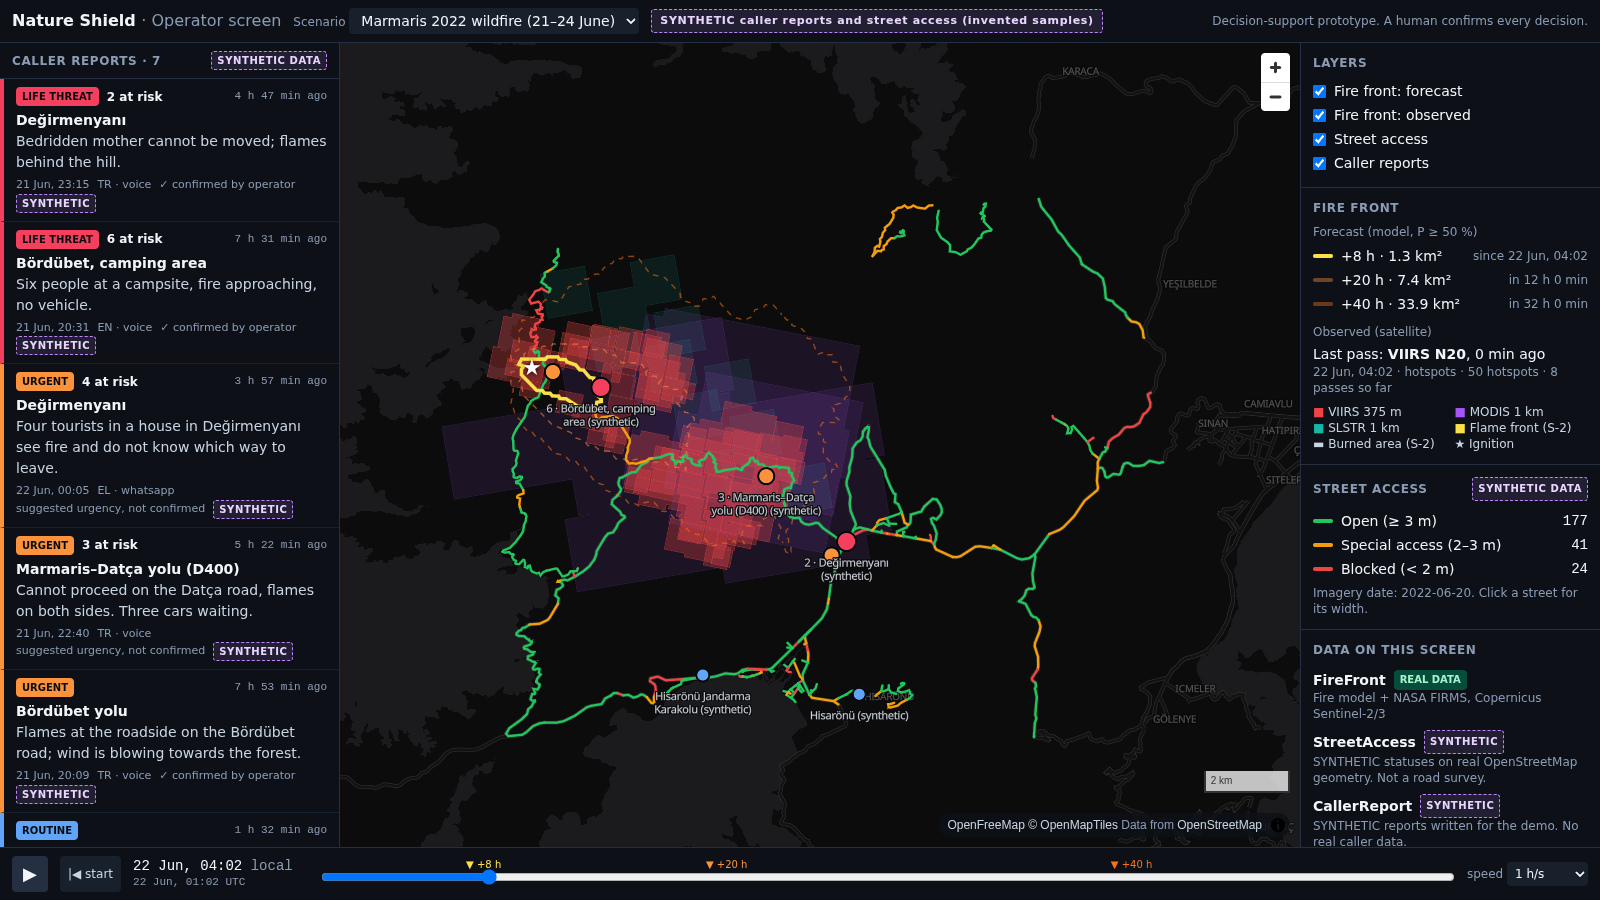
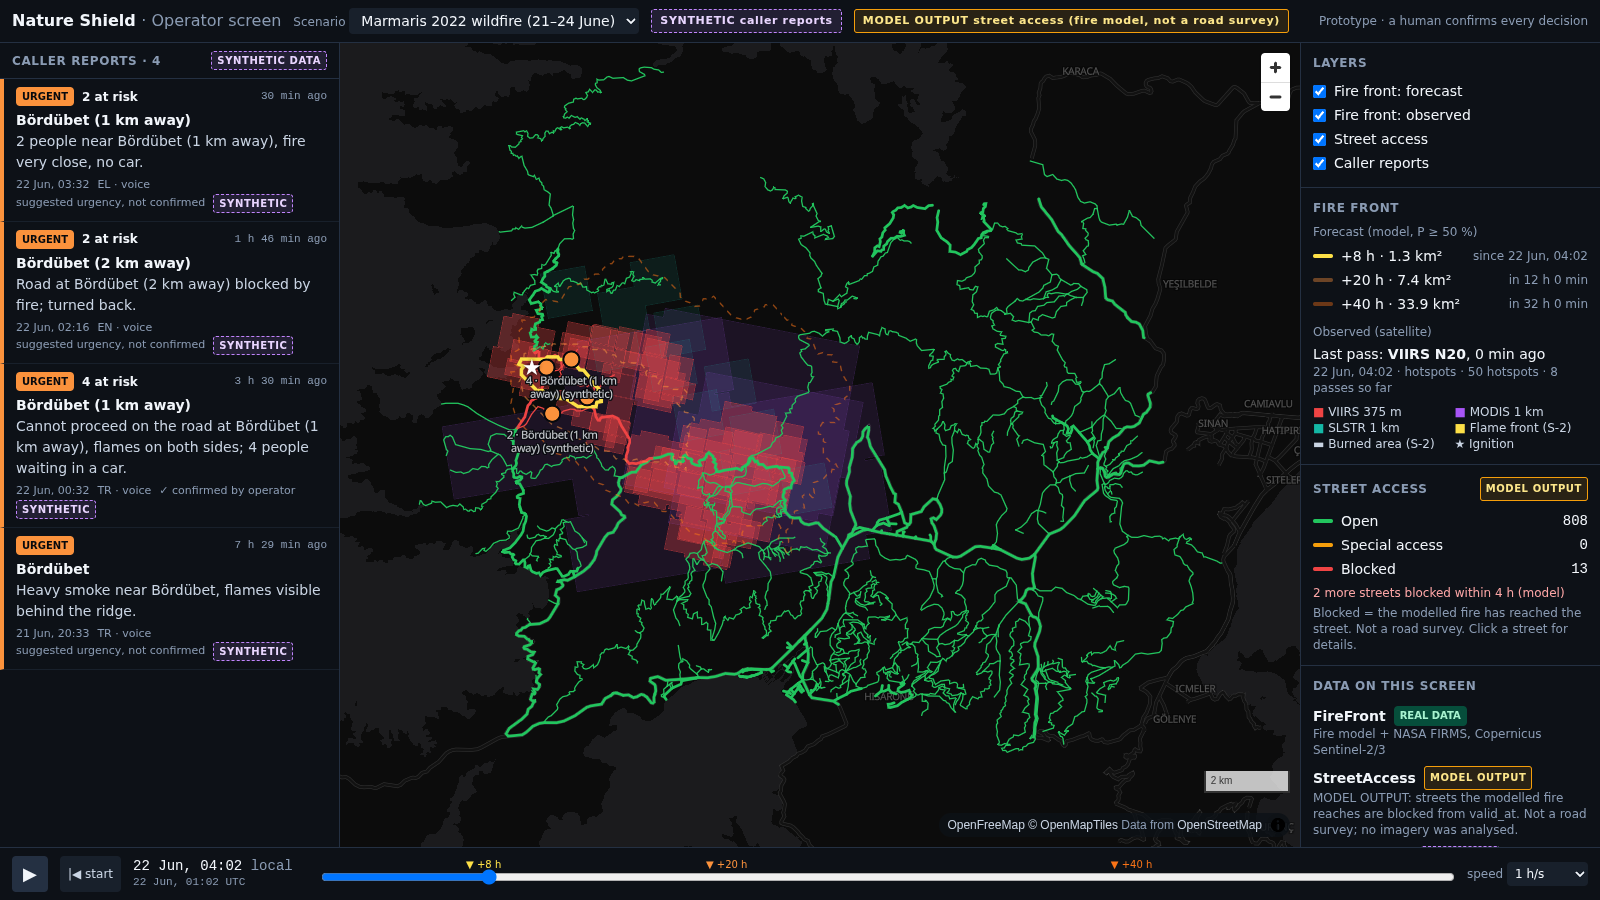
Refresh screenshots for the model-based scenario and add the offline basemap view

diff --git a/README.md b/README.md
@@ -12,6 +12,8 @@ and the **fire front** (Fire modelling) on the same map and the same clock.
 |---|---|
 | ![Caller selected](docs/02_caller_selected.png) | ![Time advanced](docs/03_time_advanced_40h.png) |
 
+Without internet the packaged basemap is used: [docs/04_offline_basemap.png](docs/04_offline_basemap.png).
+
 ## What is real and what is synthetic
 
 | Layer | File | Status |
